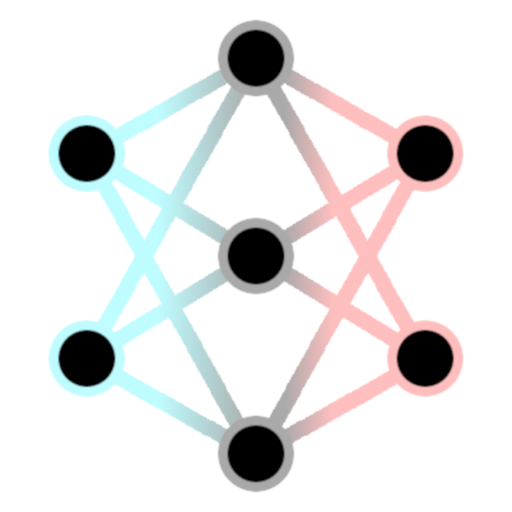
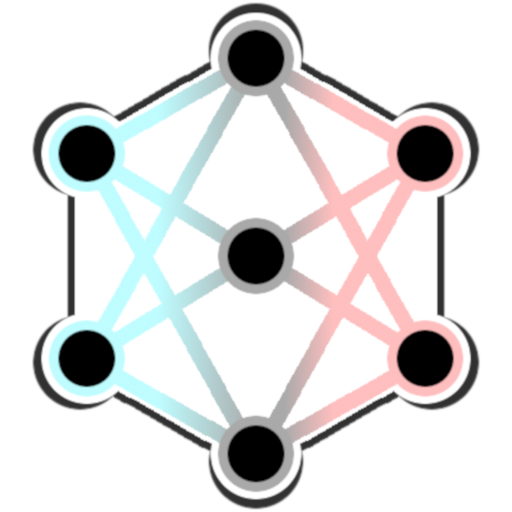
Basic Login View
User and Key icons
App icon modification

diff --git a/src/res/styles/main.css b/src/res/styles/main.css
@@ -1,3 +1,9 @@
 .text-field{
     -fx-background-radius: 16;
 }
+
+.title{
+    -fx-text-fill: #222222;
+    -fx-font-size: 48;
+    -fx-font-weight: bold;
+}

diff --git a/src/com/adrian/Axon.java b/src/com/adrian/Axon.java
@@ -1,5 +1,6 @@
 package com.adrian;
 
+import com.adrian.net.Client;
 import com.adrian.util.Log;
 import javafx.application.Application;
 import javafx.fxml.FXMLLoader;
@@ -11,23 +12,75 @@ import java.util.HashMap;
 
 public class Axon extends Application {
 
-    private static HashMap<String, Scene> scenes = new HashMap<>();
+    private static Axon singleton;
+    public static Axon get(){ return singleton; }
 
+    private static HashMap<String, Scene> scenes = new HashMap<>();
     private static double WIDTH, HEIGHT;
+
+    private Client client;
+    private boolean running;
+
+    private Stage stage;
+    private Stage popup;
 
     @Override
     public void start(Stage stage) throws Exception {
+        singleton = this;
+        this.stage = stage;
         Log.d(getClass().getName(), "started javaFX");
 
         FXMLLoader loader = new FXMLLoader(getClass().getResource("mvc/view/LoginView.fxml"));
-        WIDTH = 1024;
-        HEIGHT = 720;
+        WIDTH = 768;
+        HEIGHT = 480;
         scenes.put("login", new Scene(loader.load(), WIDTH, HEIGHT));
 
+        //startConnection();
         stage.setScene(scenes.get("login"));
         stage.setTitle("Axon");
         stage.getIcons().addAll(new Image(getClass().getResourceAsStream("../../res/icon.png")));
+
+        popup = new Stage();
+        popup.initOwner(stage);
+
         stage.show();
+    }
+
+    private void startConnection(){
+        client = new Client("localhost", 8190);
+        running = true;
+        Thread receive = new Thread(() -> {
+            while (running) {
+                byte[] data = client.receive();
+                String msg = new String(data);
+                System.out.println("Server: " + msg);
+            }
+        });
+        receive.start();
+    }
+
+    public void switchPopup(String key){
+        switchPopup(scenes.get(key));
+    }
+
+    public void switchPopup(Scene scene){
+        if(!popup.getScene().equals(scene) && scene != null){
+            popup.setScene(scene);
+        }
+    }
+
+    public void switchScene(String key){
+        switchScene(scenes.get(key));
+    }
+
+    public void switchScene(Scene scene){
+        if(!stage.getScene().equals(scene) && scene != null){
+            stage.setScene(scene);
+        }
+    }
+
+    public Client getClient() {
+        return client;
     }
 
     public static void main(String[] args) {

diff --git a/src/com/adrian/mvc/controller/LoginController.java b/src/com/adrian/mvc/controller/LoginController.java
@@ -1,16 +1,35 @@
 package com.adrian.mvc.controller;
 
+import com.adrian.Axon;
+import com.adrian.util.Constants;
+import javafx.fxml.FXML;
 import javafx.fxml.Initializable;
+import javafx.scene.control.TextField;
+import javafx.scene.image.Image;
+import javafx.scene.image.ImageView;
 
 import java.net.URL;
 import java.util.ResourceBundle;
 
 public class LoginController implements Initializable {
 
+    @FXML
+    private TextField user;
+
+    @FXML
+    private ImageView icon;
+
     @Override
     public void initialize(URL location, ResourceBundle resources) {
-
+        icon.setImage(new Image(getClass().getResourceAsStream("/res/icon.png")));
+        icon.setFitHeight(128);
+        icon.setFitWidth(128);
     }
 
-
+    @FXML
+    public void send(){
+        String msg = user.getText();
+        user.setText("");
+        Axon.get().getClient().send(msg+"$");
+    }
 }

diff --git a/src/com/adrian/mvc/controller/SignInController.java b/src/com/adrian/mvc/controller/SignInController.java
@@ -1,0 +1,27 @@
+package com.adrian.mvc.controller;
+
+import javafx.fxml.FXML;
+import javafx.fxml.Initializable;
+import javafx.scene.control.PasswordField;
+import javafx.scene.control.TextField;
+
+import java.net.URL;
+import java.util.ResourceBundle;
+
+public class SignInController implements Initializable {
+
+    @FXML
+    private TextField user;
+    @FXML
+    private TextField email;
+    @FXML
+    private PasswordField passwd_1;
+    @FXML
+    private PasswordField passwd_2;
+
+
+    @Override
+    public void initialize(URL location, ResourceBundle resources) {
+
+    }
+}

diff --git a/src/com/adrian/util/Constants.java b/src/com/adrian/util/Constants.java
@@ -1,0 +1,7 @@
+package com.adrian.util;
+
+import java.io.InputStream;
+
+public class Constants {
+    public static final InputStream ICON_RESOURCE = Constants.class.getResourceAsStream("../../../res/icon.png");
+}
